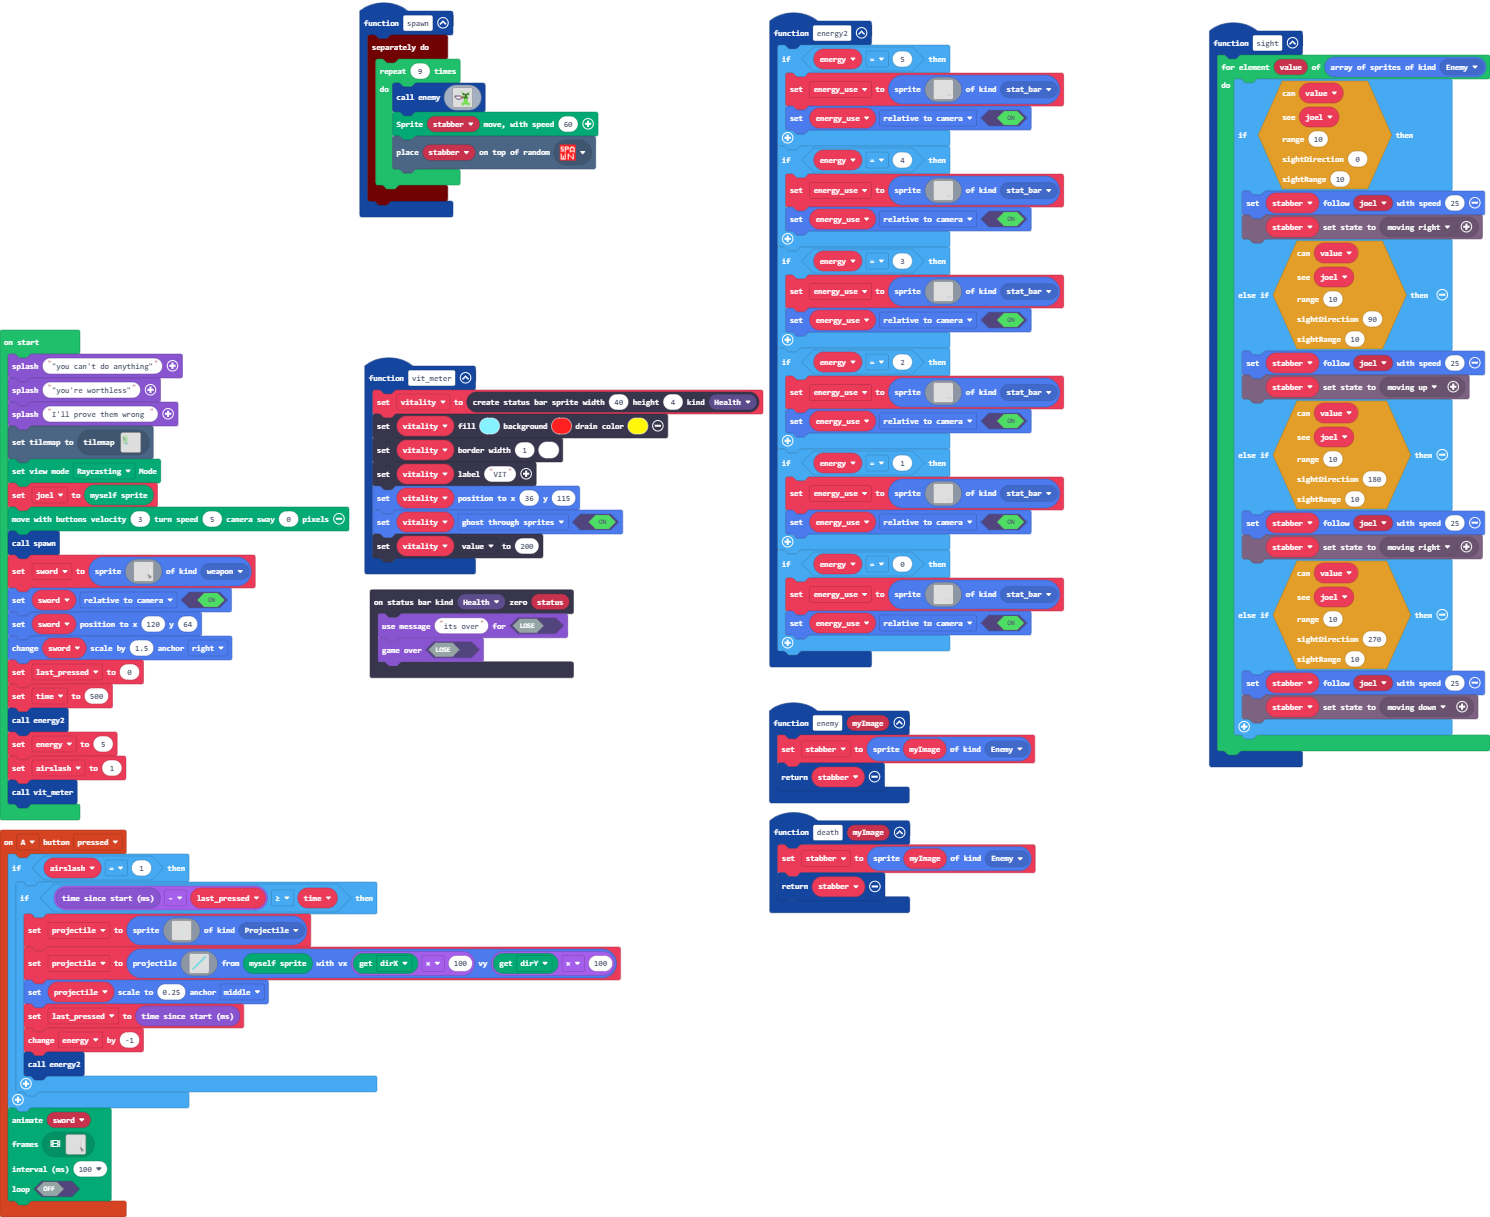
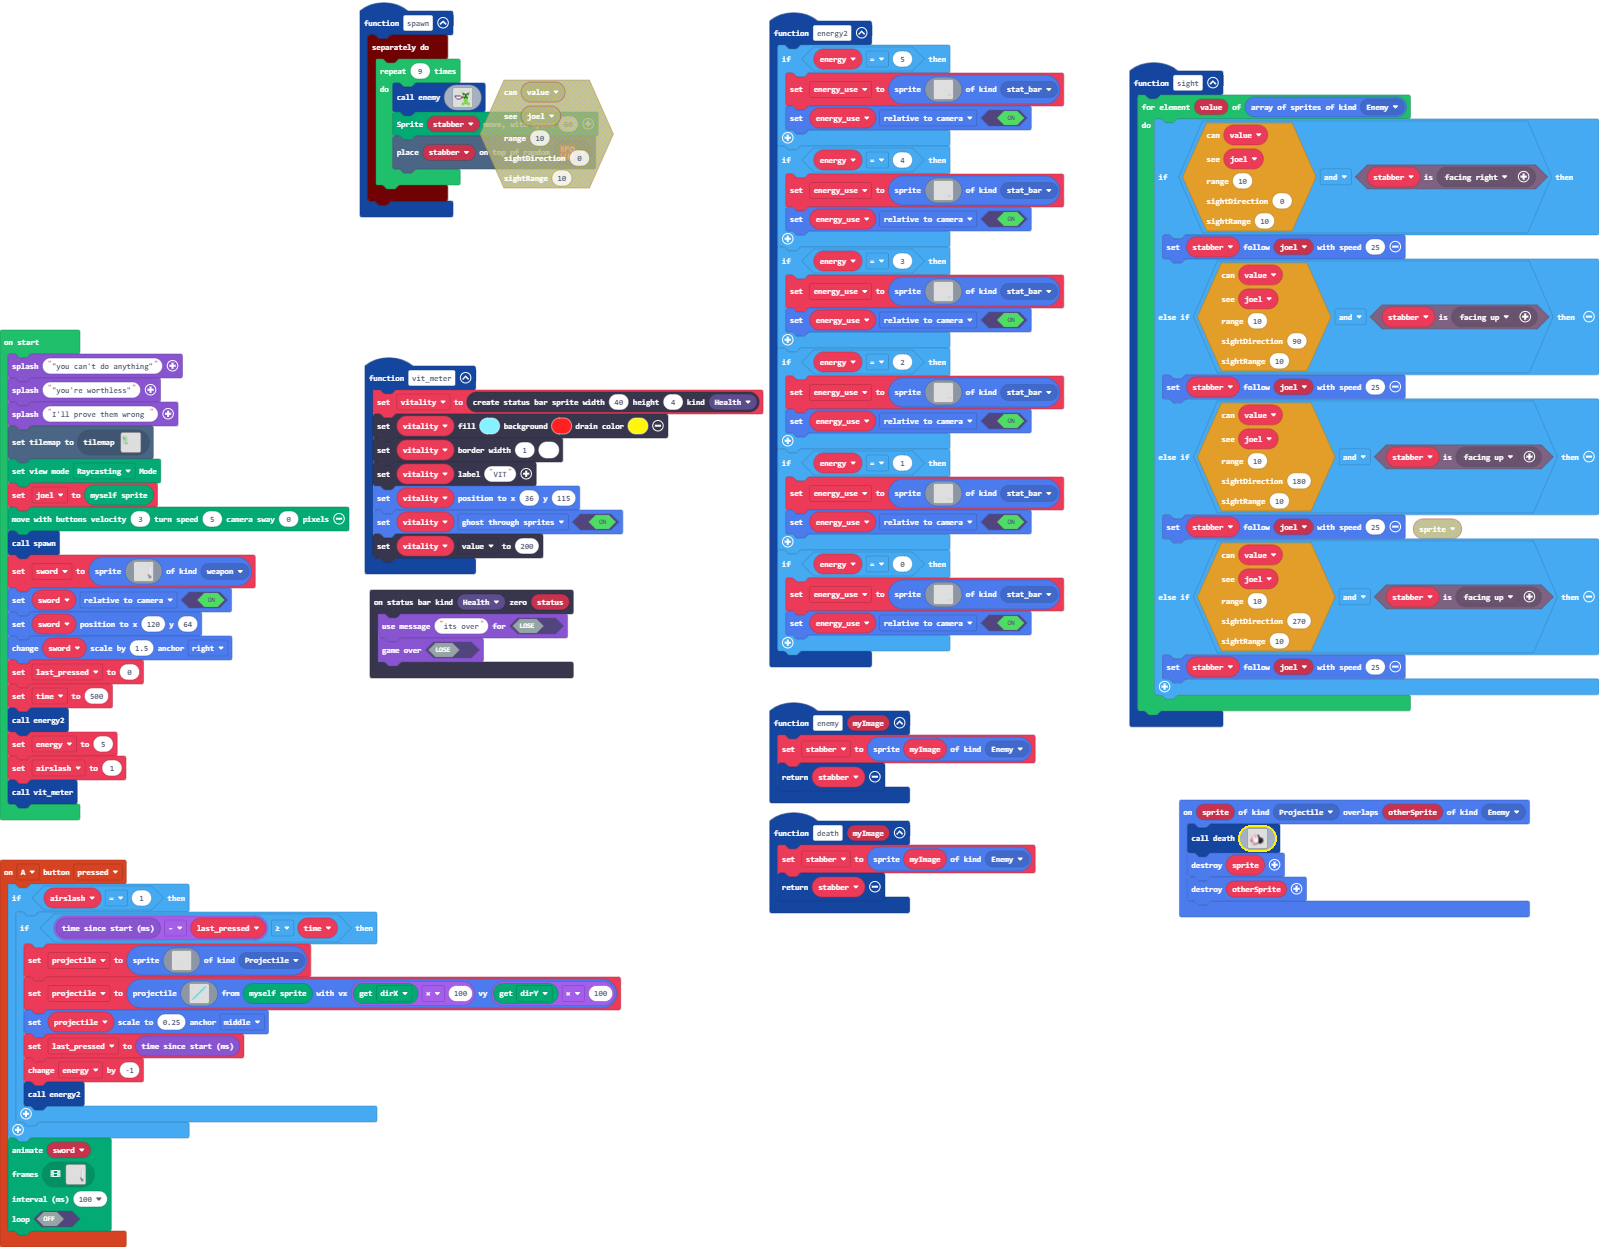
Update main.blocks, main.ts, images.g.jres

diff --git a/main.ts b/main.ts
@@ -328,9 +328,6 @@ function death (myImage: Image) {
     stabber = sprites.create(myImage, SpriteKind.Enemy)
     return stabber
 }
-sprites.onOverlap(SpriteKind.Enemy, SpriteKind.Projectile, function (sprite, otherSprite) {
-    sprites.destroy(stabber)
-})
 function vit_meter () {
     vitality = statusbars.create(40, 4, StatusBarKind.Health)
     vitality.setColor(9, 2, 5)
@@ -365,39 +362,40 @@ function sight2 () {
         10,
         0,
         10
-        )) {
+        ) && characterAnimations.matchesRule(stabber, characterAnimations.rule(Predicate.FacingRight))) {
             stabber.follow(joel, 25)
-            characterAnimations.setCharacterState(stabber, characterAnimations.rule(Predicate.MovingRight))
         } else if (sight.isInSightCone(
         value,
         joel,
         10,
         90,
         10
-        )) {
+        ) && characterAnimations.matchesRule(stabber, characterAnimations.rule(Predicate.FacingUp))) {
             stabber.follow(joel, 25)
-            characterAnimations.setCharacterState(stabber, characterAnimations.rule(Predicate.MovingUp))
         } else if (sight.isInSightCone(
         value,
         joel,
         10,
         180,
         10
-        )) {
+        ) && characterAnimations.matchesRule(stabber, characterAnimations.rule(Predicate.FacingUp))) {
             stabber.follow(joel, 25)
-            characterAnimations.setCharacterState(stabber, characterAnimations.rule(Predicate.MovingRight))
         } else if (sight.isInSightCone(
         value,
         joel,
         10,
         270,
         10
-        )) {
+        ) && characterAnimations.matchesRule(stabber, characterAnimations.rule(Predicate.FacingUp))) {
             stabber.follow(joel, 25)
-            characterAnimations.setCharacterState(stabber, characterAnimations.rule(Predicate.MovingDown))
         }
     }
 }
+sprites.onOverlap(SpriteKind.Projectile, SpriteKind.Enemy, function (sprite, otherSprite) {
+    death(assets.image`deded`)
+    sprites.destroy(sprite)
+    sprites.destroy(otherSprite)
+})
 let vitality: StatusBarSprite = null
 let stabber: Sprite = null
 let projectile: Sprite = null
